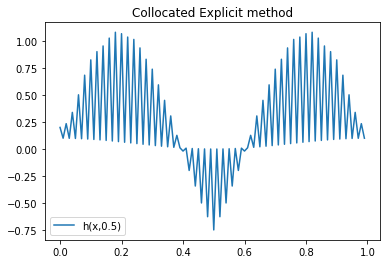
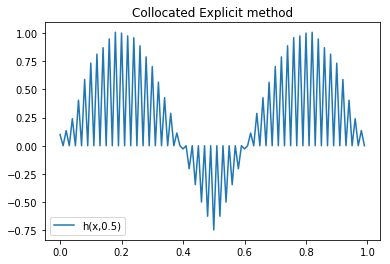
Final submission

diff --git a/linear_swe.py b/linear_swe.py
@@ -34,6 +34,8 @@ def collocated_explicit(hold,x,dx,c,T,f):
     
     if f==True:
         p=1 #This number will be used to produce plots (see below).
+        hold=np.zeros(nx)
+        h=hold.copy()
         for i in range(0,nt):#Iteration of the Collocated Explicit method over timesteps.
             for j in range(1,nx-1):#Iteration over the interior gridpoints to update u.
                 u[j]=uold[j]-0.5*c*(hold[j+1] - hold[j-1])
@@ -58,8 +60,8 @@ def collocated_explicit(hold,x,dx,c,T,f):
             
             p+=1 #p increases its value until the condition below is satisfied and then the code produces a graph.
             if p==np.floor(nt/4):
-                plt.plot(x, 0.1*h, label='u(x,'+str(np.round(dt*i,2))+')')
-                plt.plot(x, 0.1*u, label='h(x,'+str(np.round(dt*i,2))+')')
+                plt.plot(x, c*h, label='h(x,'+str(np.round(dt*i,2))+')')
+#                plt.plot(x, c*u, label='u(x,'+str(np.round(dt*i,2))+')')
                 plt.title('Collocated Explicit method')
                 plt.legend()
                 plt.show()

diff --git a/main_algorithm.py b/main_algorithm.py
@@ -30,8 +30,6 @@ def maincode(nx,Courant):
     
     hold=ic.initialcondition(x,3)
     h=hold.copy()
-#    hold=np.zeros(nx)
-#    h=hold.copy()
     
     #Plot intial condition
     plt.plot(x,h,label='h(x,0)')
@@ -42,14 +40,14 @@ def maincode(nx,Courant):
     
     #Solve SWE using a Collocated Explicit method
     #In the final argument type True to add forcing, False not to add any forcing.
-    co.collocated_explicit(hold,x,dx,Courant,1,False)
+    co.collocated_explicit(hold,x,dx,Courant,1,True)
     
     #Solve SWE using a Collocated Implicit method
-#    im.collocated_implicit(hold,x,dx,Courant,1)
+    im.collocated_implicit(hold,x,dx,Courant,1)
     
     #Solve SWE using a Staggered-Grid method
     #In the final argument type True to add forcing, False not to add any forcing.
-#    st.staggeredgrid(hold,x,dx,Courant,1,False)
+    st.staggeredgrid(hold,x,dx,Courant,1,False)
     
     
 #    The following line execute a program that produces the dispersion relations.
